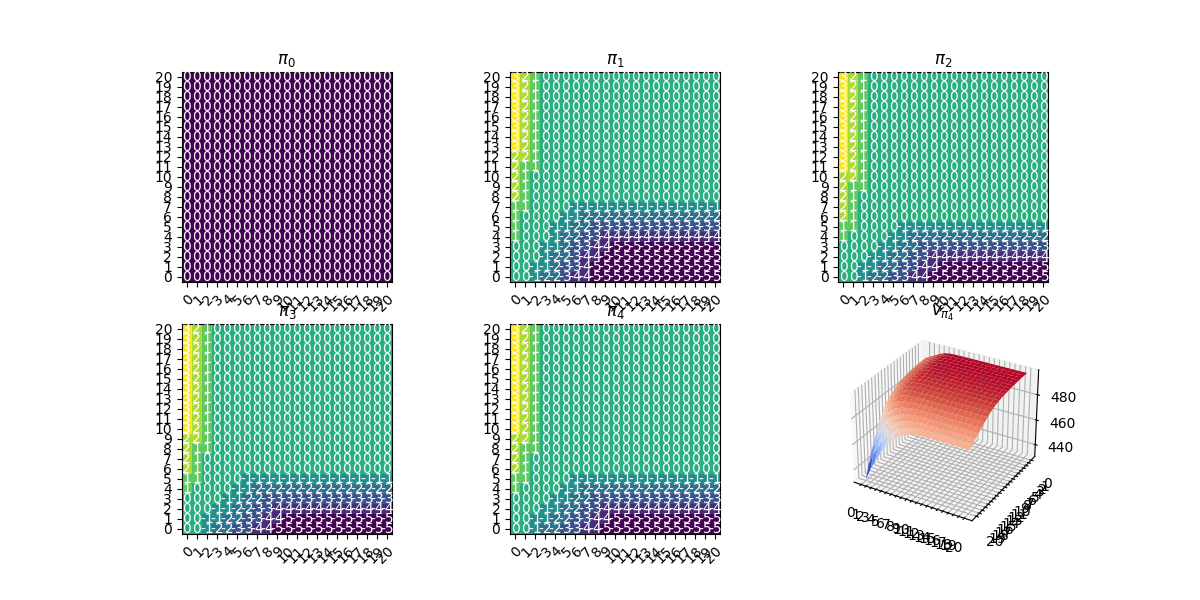
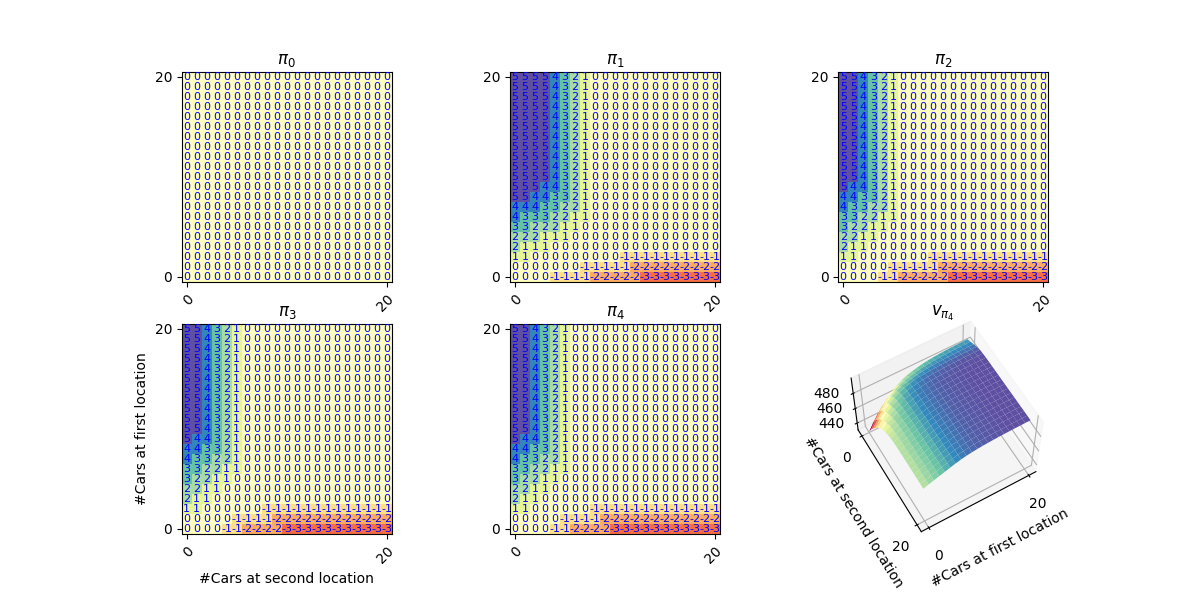
Improve plot

diff --git a/chapter4/learner.py b/chapter4/learner.py
@@ -3,7 +3,6 @@ from typing import Type, Tuple
 import numpy as np
 import matplotlib.pyplot as plt
 from tqdm import tqdm
-from matplotlib import cm
 from mpl_toolkits.mplot3d import Axes3D
 
 from env import Enviroment
@@ -77,13 +76,22 @@ class DynamicPolicyLearner:
         if ax is None:
             _, ax = plt.subplots(figsize=figsize)
         img = np.flipud(self.policy)
-        ax.imshow(img)
-        # We want to show all ticks...
-        ax.set_xticks(np.arange(self.obs_space_range))
-        ax.set_yticks(np.flip(np.arange(self.obs_space_range)))
+        ax.imshow(
+            img,
+            cmap=plt.get_cmap("Spectral"),
+            vmin=self._env_cls.act_space().min,
+            vmax=self._env_cls.act_space().max,
+        )
 
-        ax.set_xticklabels(np.arange(self.obs_space_range))
-        ax.set_yticklabels(np.arange(self.obs_space_range))
+        # We don't want to show all ticks...
+        ticks_range = np.arange(self.obs_space_range)
+        ticks_plot = [ticks_range[0], ticks_range[-1]]
+
+        ax.set_xticks(ticks_plot)
+        ax.set_yticks(np.flip(ticks_plot))
+
+        ax.set_xticklabels(ticks_plot)
+        ax.set_yticklabels(ticks_plot)
 
         # Rotate the tick labels and set their alignment.
         plt.setp(ax.get_xticklabels(), rotation=45, ha="right", rotation_mode="anchor")
@@ -91,7 +99,9 @@ class DynamicPolicyLearner:
         # Loop over data dimensions and create text annotations.
         for i in range(self.obs_space_range):
             for j in range(self.obs_space_range):
-                ax.text(j, i, img[i, j], ha="center", va="center", color="w")
+                ax.text(
+                    j, i, img[i, j], ha="center", va="center", color="b", fontsize=8
+                )
 
         ax.set_title(title)
 
@@ -108,10 +118,18 @@ class DynamicPolicyLearner:
         x = np.arange(self.obs_space_range)
         y = np.arange(self.obs_space_range)
         X, Y = np.meshgrid(x, y)
-        ax.plot_surface(X, Y, self.value, cmap=cm.get_cmap("coolwarm"))
-        ax.set_xticks(np.arange(self.obs_space_range))
-        ax.set_yticks(np.flip(np.arange(self.obs_space_range)))
+        ax.plot_surface(X, Y, np.fliplr(self.value), cmap=plt.get_cmap("Spectral"))
 
-        ax.set_xticklabels(np.arange(self.obs_space_range))
-        ax.set_yticklabels(np.arange(self.obs_space_range))
+        # We don't want to show all ticks...
+        ticks_range = np.arange(self.obs_space_range)
+        ticks_plot = [ticks_range[0], ticks_range[-1]]
+
+        ax.set_xticks(ticks_plot)
+        ax.set_yticks(ticks_plot)
+
+        ax.set_xticklabels(np.flip(ticks_plot))
+        ax.set_yticklabels(ticks_plot)
+
         ax.set_title(title)
+        # Rotate
+        ax.view_init(60, 60)

diff --git a/chapter4/main.py b/chapter4/main.py
@@ -1,7 +1,6 @@
 import numpy as np
 import matplotlib.pyplot as plt
 from tqdm import tqdm
-from matplotlib import cm
 from mpl_toolkits.mplot3d import Axes3D
 
 from learner import DynamicPolicyLearner
@@ -10,16 +9,24 @@ from env import RentalCarEnv
 
 def figure_4_2():
     learner = DynamicPolicyLearner(RentalCarEnv, fixed_return=True)
-    # Plot
-    fig = plt.figure(figsize=(12, 6))
 
+    fig = plt.figure(figsize=(12, 6))
+    # Plot policies
     for i in range(4):
-        learner.plot_policy(fig.add_subplot(2, 3, i + 1), title=f"$\\pi_{i}$")
+        ax = fig.add_subplot(2, 3, i + 1)
+        if i == 3:
+            ax.set_xlabel("#Cars at second location")
+            ax.set_ylabel("#Cars at first location")
+        learner.plot_policy(ax, title=f"$\\pi_{i}$")
         learner.policy_evaluation()
         learner.policy_improvement()
-
     learner.plot_policy(fig.add_subplot(235), title="$\\pi_4$")
-    learner.plot_value(fig.add_subplot(236, projection="3d"), title="$v_{\\pi_4}$")
+
+    # Plot value
+    ax = fig.add_subplot(236, projection="3d")
+    learner.plot_value(ax, title="$v_{\\pi_4}$")
+    ax.set_ylabel("#Cars at second location")
+    ax.set_xlabel("#Cars at first location")
 
     fig.savefig("figure_4_2.png", dpi=100)
 

diff --git a/chapter4/env.py b/chapter4/env.py
@@ -50,10 +50,10 @@ class RentalCarEnv(Enviroment):
     # How many values of the Poisson distributtion use to calculate the dynamics
     _poisson_range = 11
     # Rental car lambdas
-    _lam_in_a = 3
-    _lam_out_a = 3
-    _lam_in_b = 4
-    _lam_out_b = 2
+    _lam_in_a = 4
+    _lam_out_a = 2
+    _lam_in_b = 3
+    _lam_out_b = 3
     # Reward values
     _move_reward = -2
     _rental_reward = 10
